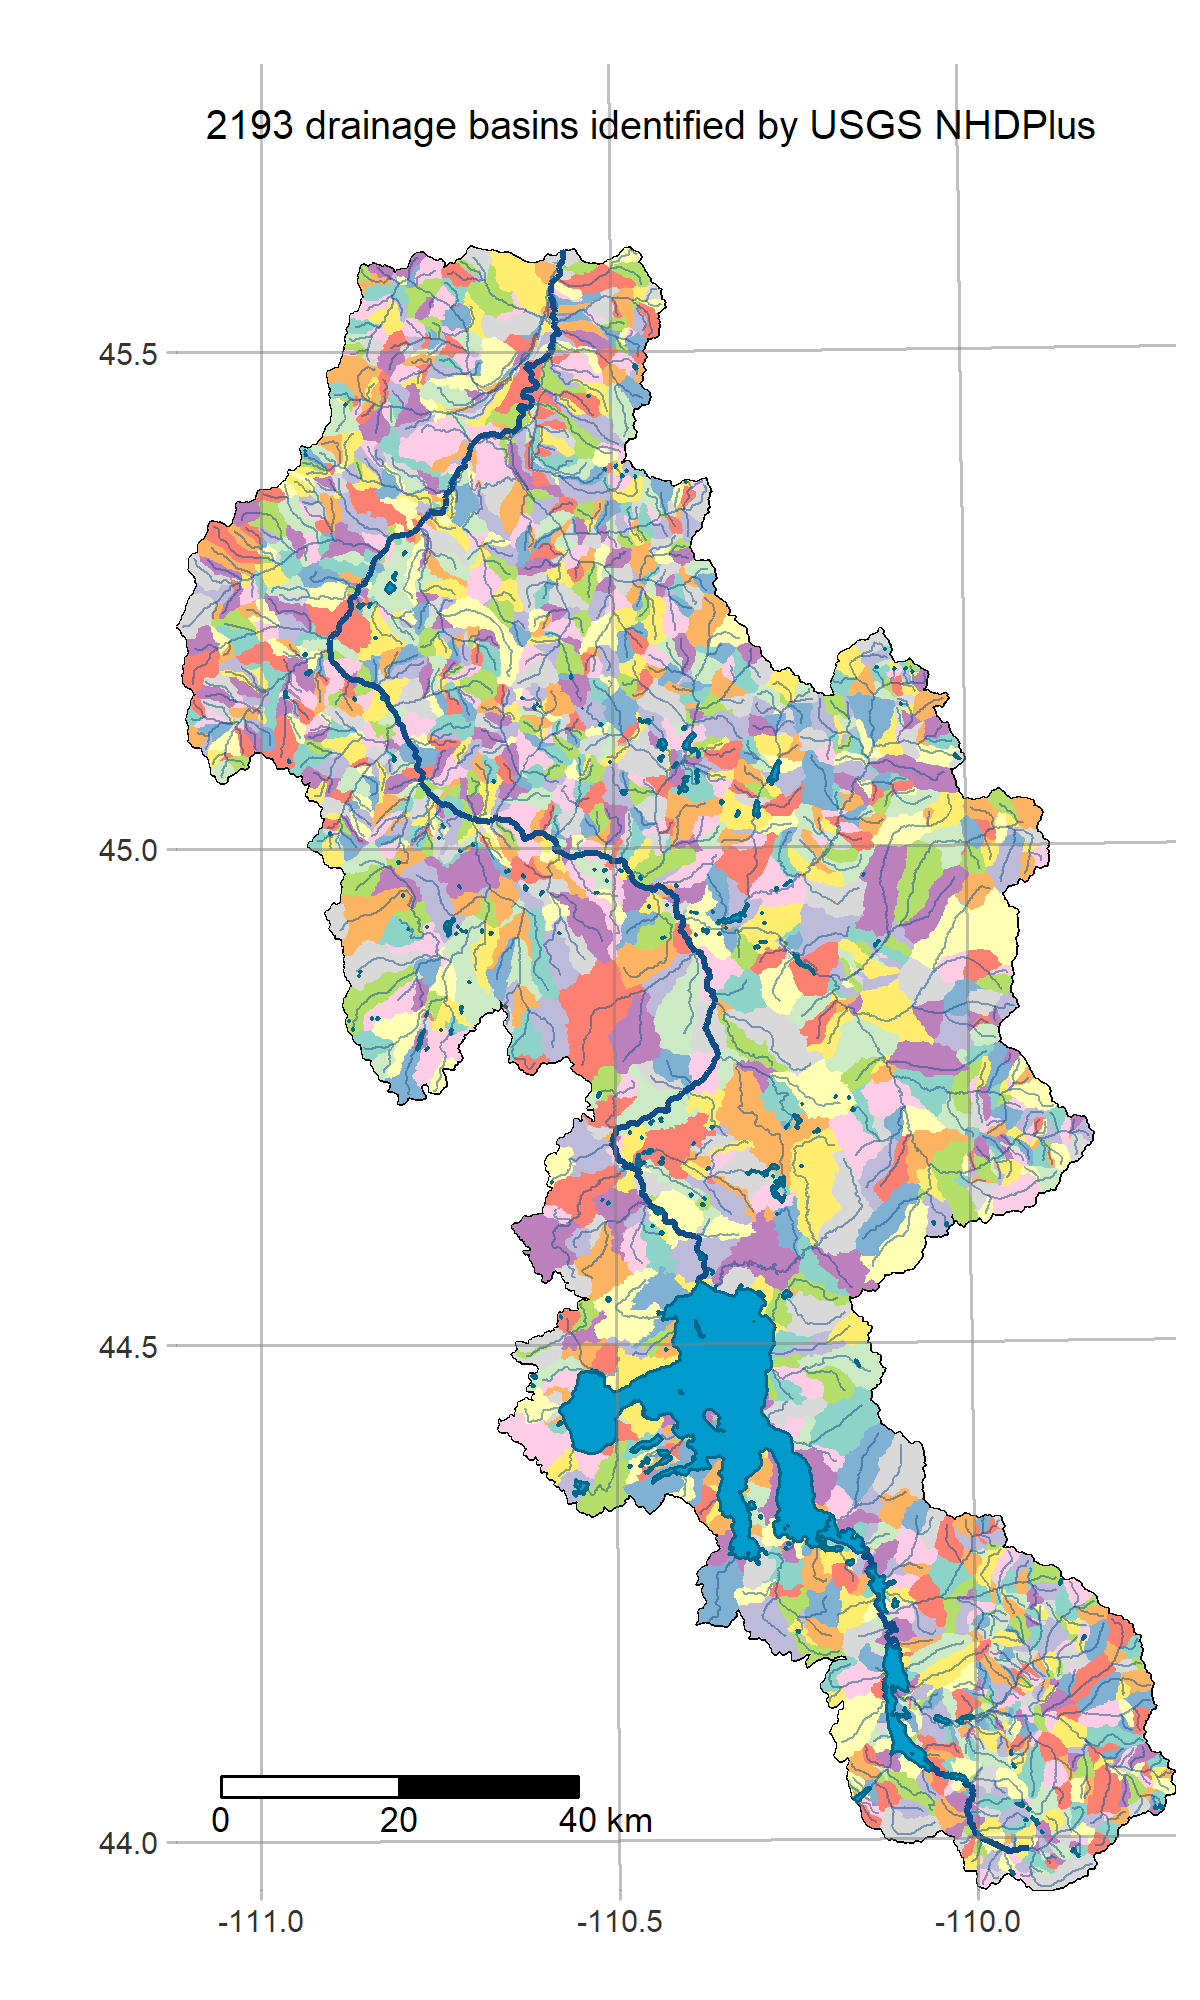
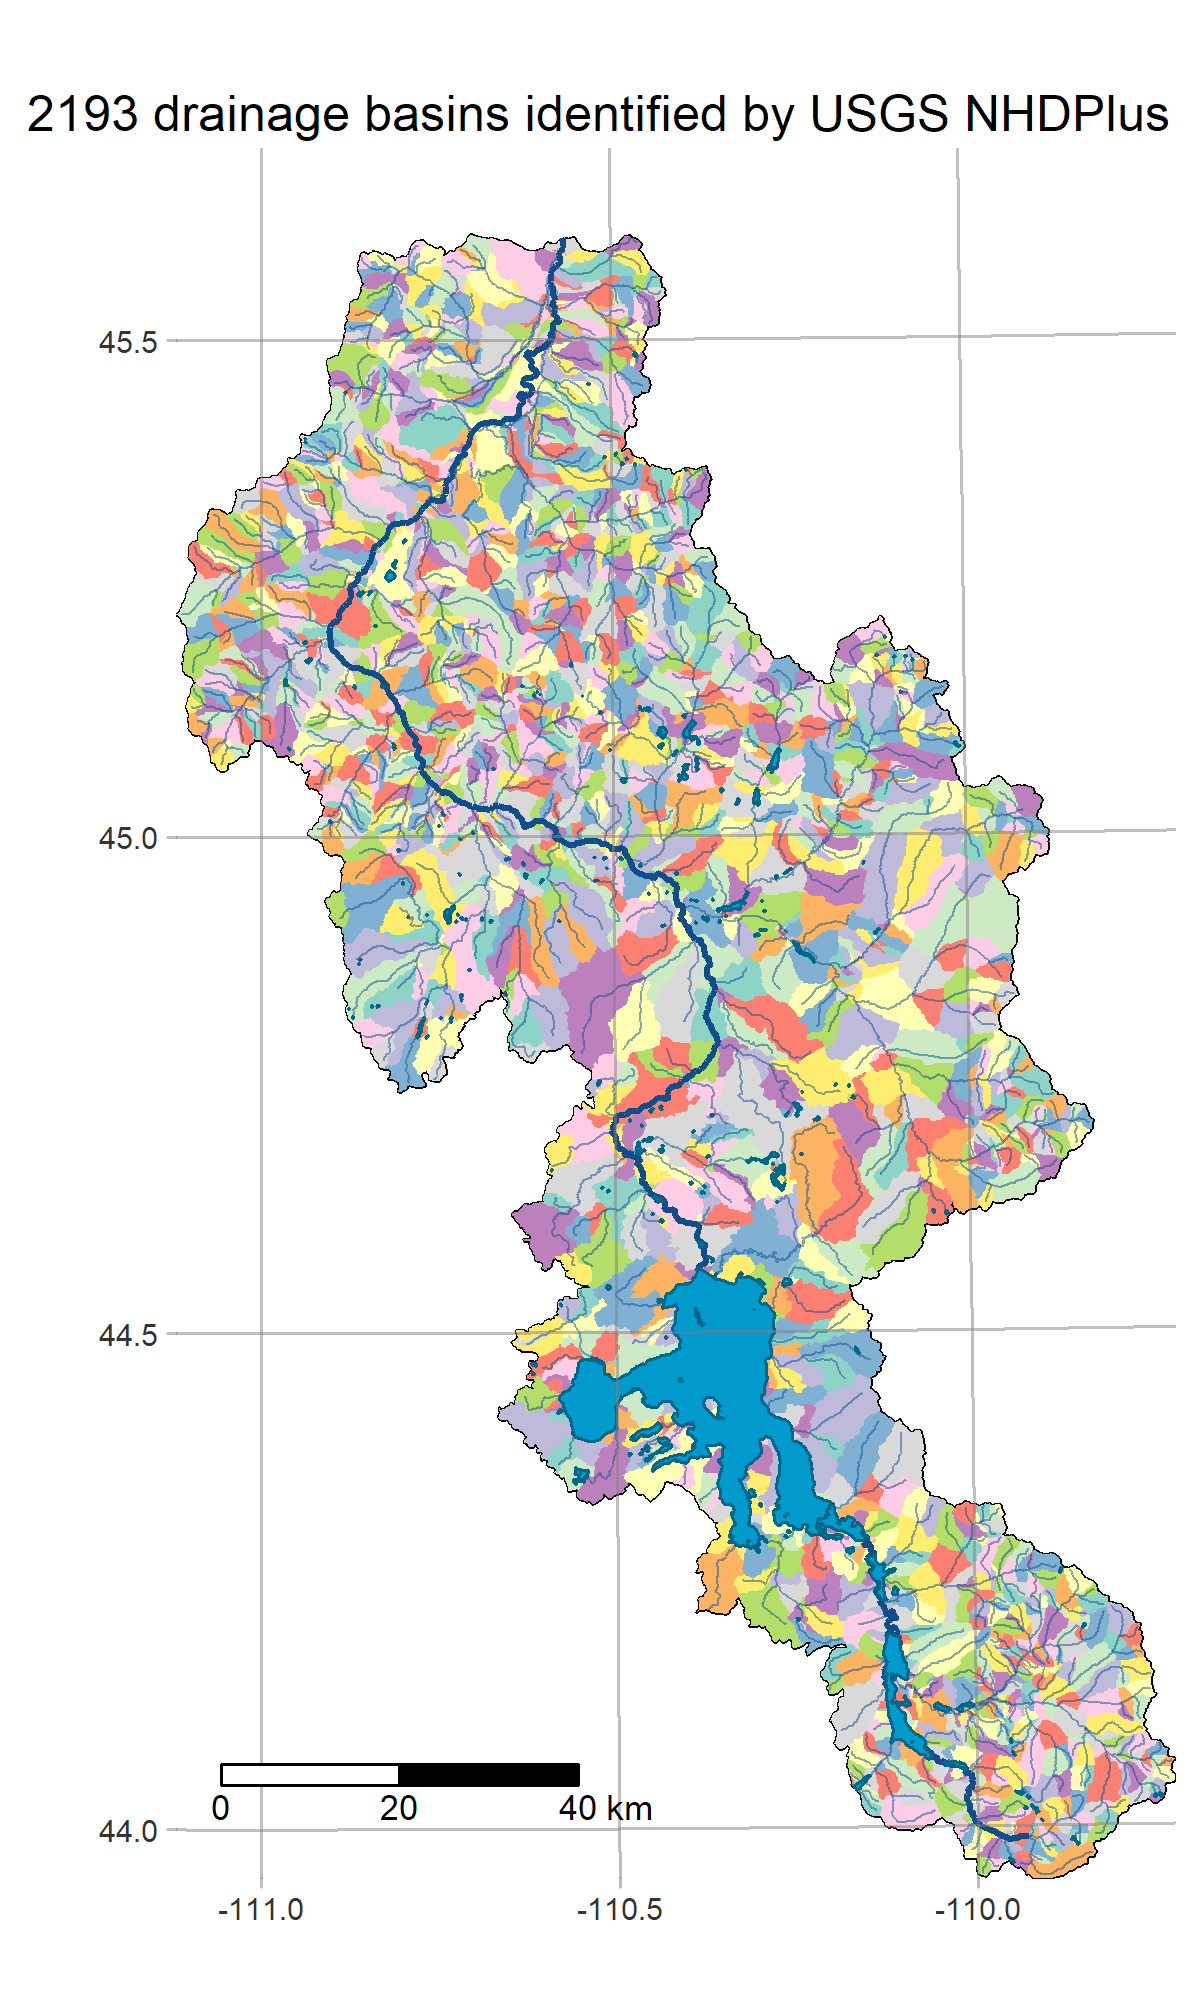
minor changes to plotting and filenames

diff --git a/markdown/get_streamgages.md b/markdown/get_streamgages.md
@@ -28,18 +28,6 @@ library(dataRetrieval)
 ## project data
 
 ``` r
-# project directory names
-graphics.dir = 'graphics'
-src.subdir = 'data/source'
-out.subdir = 'data/prepared'
-
-# load metadata csv, CRS info list and watershed geometries from disk
-crs.list = readRDS(here(my_metadata('get_basins')['crs', 'file']))
-uyrw.poly = readRDS(here(my_metadata('get_basins')['boundary', 'file']))
-uyrw.waterbody = readRDS(here(my_metadata('get_basins')['waterbody', 'file']))
-uyrw.mainstem = readRDS(here(my_metadata('get_basins')['mainstem', 'file']))
-uyrw.flowline = readRDS(here(my_metadata('get_basins')['flowline', 'file']))
-
 # This list describes all of the files created by this script:
 files.towrite = list(
   
@@ -61,12 +49,6 @@ files.towrite = list(
     type='CSV', 
     description='description of codes used in parameter_cd column of NWIS dataframe on time-series'),
   
-  # aesthetic parameters for plotting
-  c(name='tmap.pars',
-    file=file.path(data.dir, 'get_streamgages_tmap.rds'), 
-    type='R list object', 
-    description='parameters for writing png plots using tmap and tm_save'),
-  
   # graphic showing SNOTEL and GHCND site locations on the UYRW
   c(name='img_streamgage',
     file=file.path(graphics.dir, 'streamgage_sites.png'),
@@ -79,9 +61,28 @@ files.towrite = list(
 my_metadata('get_streamgages', files.towrite, overwrite=TRUE)
 ```
 
+    ## [1] "writing to data/get_streamgages_metadata.csv"
+
+    ##                                              file          type                                                                       description
+    ## tmap.pars           data/get_streamgages_tmap.rds R list object                           parameters for writing png plots using tmap and tm_save
+    ## USGS_paramcodes          data/USGS_paramcodes.csv           CSV description of codes used in parameter_cd column of NWIS dataframe on time-series
+    ## USGS_sites.rdb         data/source/USGS_sites.rdb USGS rdb file                         results of USGS Site web service search for sites in UYRW
+    ## USGS_sites.sfc       data/prepared/USGS_sites.rds   R sf object                                     sfc object with USGS sensor locations in UYRW
+    ## img_streamgage      graphics/streamgage_sites.png   png graphic                                        image of stream gage locations in the UYRW
+    ## metadata        data/get_streamgages_metadata.csv           CSV                                  list files of files written by get_streamgages.R
+
 This list of files and descriptions is now stored as a [.csv
 file](https://github.com/deankoch/UYRW_data/blob/master/data/get_streamgage_metadata.csv)
-in the `/data` directory.
+in the `/data` directory. Load some of the data prepared earlier
+
+``` r
+# load metadata csv, CRS info list and watershed geometries from disk
+crs.list = readRDS(here(my_metadata('get_basins')['crs', 'file']))
+uyrw.poly = readRDS(here(my_metadata('get_basins')['boundary', 'file']))
+uyrw.waterbody = readRDS(here(my_metadata('get_basins')['waterbody', 'file']))
+uyrw.mainstem = readRDS(here(my_metadata('get_basins')['mainstem', 'file']))
+uyrw.flowline = readRDS(here(my_metadata('get_basins')['flowline', 'file']))
+```
 
 ## Find sites
 
@@ -182,15 +183,6 @@ if(!file.exists(here(my_metadata('get_streamgages')['USGS_paramcodes', 'file']))
   # load from disk 
   paramcodes.df = read.csv(here(my_metadata('get_streamgages')['USGS_paramcodes', 'file']), colClasses='character')
 }
-
-# find all intermittent groundwater data
-# find all entries corresponding to groundwater time series
-# paramcode.groundwater = paramcodes.df$parameter_cd[paramcodes.df$SRSName == 'Height, gage']
-# idx.groundwater = usgs.ts.sf$parm_cd == paramcode.groundwater
-# sum(idx.groundwater)
-#usgs.ts.sf$plotlabel_gw = 'groundwater time series'
-#idx.gw = usgs.sf$data_type_cd == 'gw'
-#sum(idx.gw)
 ```
 
 ## visualization
@@ -259,26 +251,15 @@ usgs.ts.sf$plotlabel_ss = 'suspended sediment'
 usgs.ts.sf$endyear[usgs.ts.sf$endyear == 2020] = NA
 ```
 
-Set up the aesthetics to use for these types of plots
+Set up the aesthetics and make the plot
 
 ``` r
-if(!file.exists(here(my_metadata('get_streamgages')['tmap.pars', 'file'])))
-{
-  # load the plotting parameters used in get_weatherstations.R
-  tmap.pars = readRDS(here(my_metadata('get_weatherstations')['tmap.pars', 'file']))
-  
-  # adjust with a better highlight colour for the blue background
-  tmap.pars$dots$tm_symbols$colorNA = 'orange'
-  
-  saveRDS(tmap.pars, here(my_metadata('get_weatherstations')['tmap.pars', 'file']))
-  
-} else {
-  
-  # load from disk
-  tmap.pars = readRDS(here(my_metadata('get_weatherstations')['tmap.pars', 'file']))
-  
-} 
+# load the plotting parameters used in get_weatherstations.R
+tmap.pars = readRDS(here(my_metadata('get_weatherstations')['tmap.pars', 'file']))
 
+# adjust with a better highlight colour for the blue background
+tmap.pars$dots$tm_symbols$colorNA = 'orange'
+  
 # create the plot grob and write to disk
 if(!file.exists(here(my_metadata('get_streamgages')['img_streamgage', 'file'])))
 {
@@ -302,7 +283,7 @@ if(!file.exists(here(my_metadata('get_streamgages')['img_streamgage', 'file'])))
                     tmap.pars$layout +
                     tm_layout(main.title='NWIS daily discharge records in the UYRW')
   
-  # render/write the plot
+  # render the plot
   tmap_save(tm=tmap.streamgage, 
             here(my_metadata('get_streamgages')['img_streamgage', 'file']), 
             width=tmap.pars$png['w'], 

diff --git a/markdown/get_weatherstations.md b/markdown/get_weatherstations.md
@@ -37,13 +37,6 @@ library(rnoaa)
 ## project data
 
 ``` r
-# load metadata csv, CRS info list and watershed geometries from disk
-crs.list = readRDS(here(my_metadata('get_basins')['crs', 'file']))
-uyrw.poly = readRDS(here(my_metadata('get_basins')['boundary', 'file']))
-uyrw.waterbody = readRDS(here(my_metadata('get_basins')['waterbody', 'file']))
-uyrw.mainstem = readRDS(here(my_metadata('get_basins')['mainstem', 'file']))
-uyrw.flowline = readRDS(here(my_metadata('get_basins')['flowline', 'file']))
-
 # This list describes all of the files created by this script:
 files.towrite = list(
   
@@ -79,7 +72,7 @@ files.towrite = list(
   
   # aesthetic parameters for plotting
   c(name='tmap.pars',
-    file=file.path(data.dir, 'get_weatherstations_tmap.rds'), 
+    file=file.path(data.dir, 'tmap_get_weatherstations.rds'), 
     type='R list object', 
     description='parameters for writing png plots using tmap and tm_save'),
   
@@ -98,7 +91,7 @@ my_metadata('get_weatherstations', files.towrite, overwrite=TRUE)
     ## [1] "writing to data/get_weatherstations_metadata.csv"
 
     ##                                                      file          type                                                            description
-    ## tmap.pars               data/get_weatherstations_tmap.rds R list object                parameters for writing png plots using tmap and tm_save
+    ## tmap.pars               data/tmap_get_weatherstations.rds R list object                parameters for writing png plots using tmap and tm_save
     ## snotel.csv                   data/source/snotel_sites.csv           CSV                             metadata list for SNOTEL sites (unchanged)
     ## snotel                     data/prepared/snotel_sites.rds   R sf object                        sfc object with SNOTEL sensor locations in UYRW
     ## ghcnd.csv                     data/source/ghcnd_sites.csv           CSV                              metadata list for GHCND sites (unchanged)
@@ -109,9 +102,20 @@ my_metadata('get_weatherstations', files.towrite, overwrite=TRUE)
 
 This list of files and descriptions is now stored as a [.csv
 file](https://github.com/deankoch/UYRW_data/blob/master/data/get_weatherstation_metadata.csv)
-in the `/data` directory. Climatic data near the boundaries of the
-watershed will be useful for interpolation. Define a padded boundary
-polygon to search inside for station data
+in the `/data` directory. Load some of the data prepared earlier
+
+``` r
+# load metadata csv, CRS info list and watershed geometries from disk
+crs.list = readRDS(here(my_metadata('get_basins')['crs', 'file']))
+uyrw.poly = readRDS(here(my_metadata('get_basins')['boundary', 'file']))
+uyrw.waterbody = readRDS(here(my_metadata('get_basins')['waterbody', 'file']))
+uyrw.mainstem = readRDS(here(my_metadata('get_basins')['mainstem', 'file']))
+uyrw.flowline = readRDS(here(my_metadata('get_basins')['flowline', 'file']))
+```
+
+Climatic data near the boundaries of the watershed will be useful for
+interpolation. Define a padded boundary polygon to search inside for
+station data
 
 ``` r
 if(!file.exists(here(my_metadata('get_weatherstations')['boundary_padded', 'file'])))
@@ -339,7 +343,7 @@ if(!file.exists(here(my_metadata('get_weatherstations')['img_weatherstation', 'f
                 tm_shape(precip.sf[!is.na(precip.sf$snowtel_id),]) +
                   tm_dots(col='constant', palette='black', size=0.5, shape=6, title='') +
                 tm_shape(precip.sf) +
-                tmap.pars$dots + 
+                  tmap.pars$dots + 
                 tmap.pars$layout +
                 tm_layout(main.title='GHCN (daily) precipitation records in the UYRW')
   

diff --git a/markdown/get_basins.md b/markdown/get_basins.md
@@ -122,7 +122,7 @@ files.towrite = list(
    
    # aesthetic parameters for plotting
    c(name='tmap.pars',
-     file=file.path(data.dir, 'get_basins_tmap.rds'), 
+     file=file.path(data.dir, 'tmap_get_basins.rds'), 
      type='R list object', 
      description='parameters for writing png plots using tmap and tm_save'),
    
@@ -145,7 +145,7 @@ my_metadata('get_basins', files.towrite, overwrite=TRUE)
     ## [1] "writing to data/get_basins_metadata.csv"
 
     ##                                               file          type                                                      description
-    ## tmap.pars                 data/get_basins_tmap.rds R list object          parameters for writing png plots using tmap and tm_save
+    ## tmap.pars                 data/tmap_get_basins.rds R list object          parameters for writing png plots using tmap and tm_save
     ## poi                              data/uyrw_poi.rds R list object                              points of interest in the watershed
     ## nhd                      data/source/uyrw_nhd.gpkg    geopackage                                   source geometries from NHDPlus
     ## crs                              data/uyrw_crs.rds R list object                     details of projection/extent for the project
@@ -384,9 +384,11 @@ if(!file.exists(here(my_metadata('get_basins')['tmap.pars', 'file'])))
     # aesthetics for lat/long gridlines, scalebar, title position
     layout = tm_grid(n.x=4, n.y=5, projection=crs.list$epsg.geo, alpha=0.5) +
       tm_scale_bar(breaks=c(0, 20, 40), position=c('left', 'bottom'), text.size=0.7) +
-      tm_layout(title.position=c('center', 'top'), 
+      tm_layout(title.position=c('center', 'top'),
+                main.title.size=1,
+                main.title.position='center',
                 frame=FALSE, 
-                inner.margins=c(0,0,0.1,0)),
+                inner.margins=c(0,0,0.05,0)),
     
     # parameters for labels
     label.txt.size = 0.7
@@ -423,10 +425,10 @@ if(!file.exists(here(my_metadata('get_basins')['img_flowline', 'file'])))
     tm_shape(poi.list$pt[['cartersbridge']]) +   
       tm_dots(size=0.2, col='red') +
     tm_text('request', size=tmap.pars$label.txt.size, ymod=0.5) +
-      tm_shape(st_sf(st_centroid(millcreek.poly), data.frame(request='Mill Creek pilot study'))) +   
+      tm_shape(st_sf(st_centroid(millcreek.list$boundary), data.frame(request='Mill Creek pilot study'))) +   
       tm_text('request', size=tmap.pars$label.txt.size, xmod=5) +
     tmap.pars$layout +
-    tm_layout(title='major watercourses in the UYRW') 
+    tm_layout(main.title='major watercourses in the UYRW') 
   
   # render the plot
   tmap_save(tm=tmap.watercourses, 
@@ -459,7 +461,7 @@ if(!file.exists(here(my_metadata('get_basins')['img_basins', 'file'])))
     tm_shape(uyrw.waterbody) + 
       tm_polygons(col='deepskyblue3', border.col='deepskyblue4') +
     tmap.pars$layout +
-    tm_layout(title=paste(nrow(uyrw.catchment), 'drainage basins identified by USGS NHDPlus'))
+    tm_layout(main.title=paste(nrow(uyrw.catchment), 'drainage basins identified by USGS NHDPlus'))
 
   # render the plot
   tmap_save(tm=tmap.basins, 
